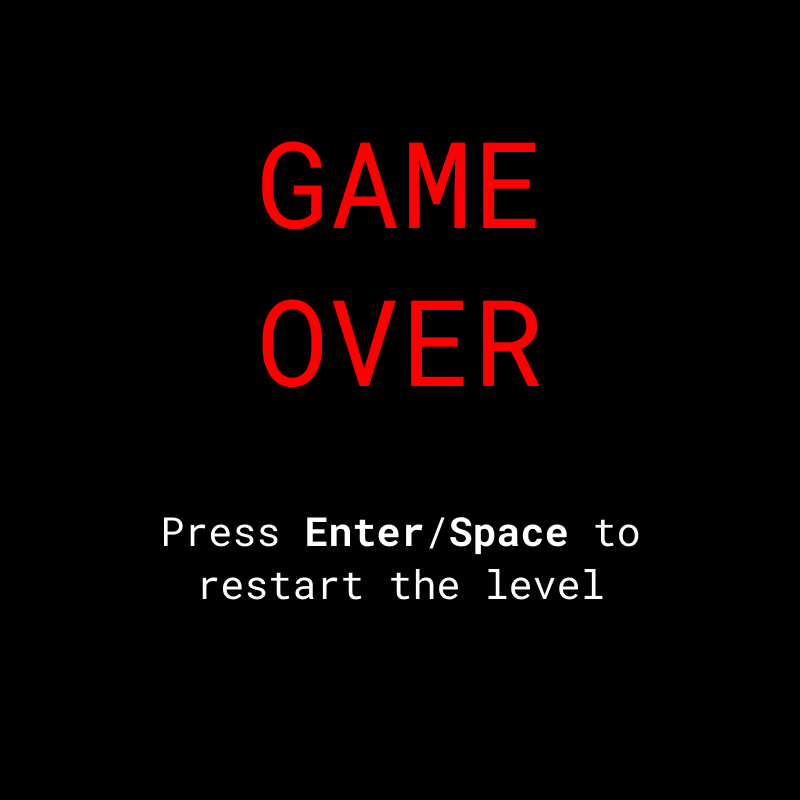
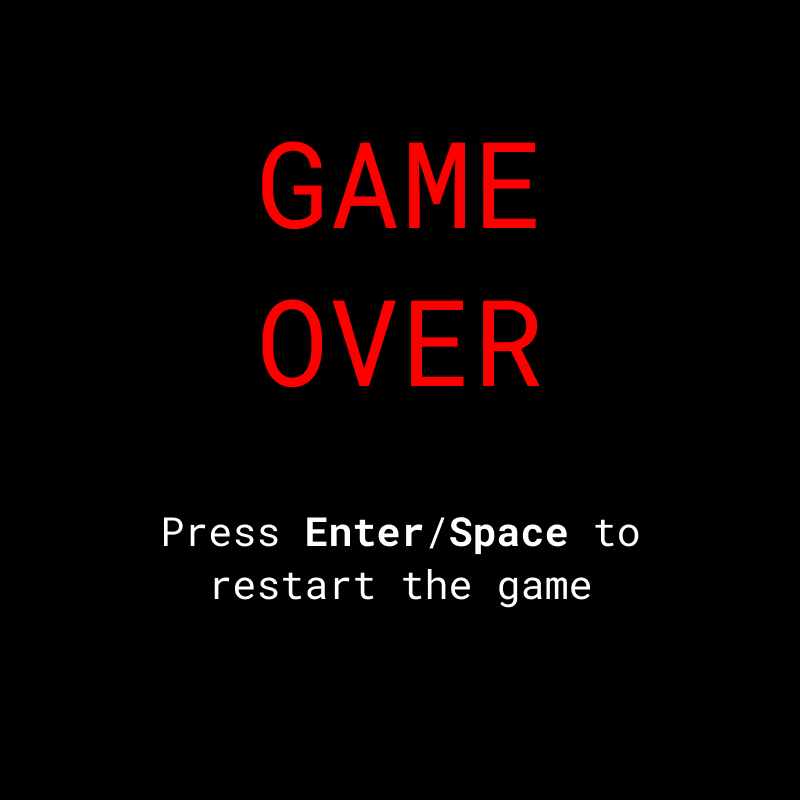
Game over method changed
Now you start from the begin

Changed region(s): [[0.25, 0.7188, 0.75, 0.7812]]

diff --git a/Screen.java b/Screen.java
@@ -22,5 +22,13 @@ public class Screen extends World implements ScreenActions{
     public void checkKeyDown(Screen newScreen){
         if(Greenfoot.isKeyDown("enter") || Greenfoot.isKeyDown("space"))
             Greenfoot.setWorld(newScreen);
-    }   
+    }
+    
+    public void restartGame(){
+        Timer.restartTimer();
+        Level.restartLevels();
+        MathProblem.restartMathProblem();
+        Hero.getInstance().resetHeroLives();
+        TouchingTimer.restartTimer();
+    }
 }

diff --git a/GameOverScreen.java b/GameOverScreen.java
@@ -13,16 +13,10 @@ public class GameOverScreen extends Screen{
      */
     public GameOverScreen(){    
         super(); 
-        restartLevel();
+        restartGame();
     }
     // Act
     public void act(){
         checkKeyDown(new Level());
-    }
-    // restart level
-    public void restartLevel(){
-        Timer.restartTimer();
-        Hero.getInstance().resetHeroLives();
-        TouchingTimer.restartTimer();
     }
 }

diff --git a/WinScreen.java b/WinScreen.java
@@ -19,12 +19,4 @@ public class WinScreen extends Screen{
     public void act(){
         checkKeyDown(new Level());
     }
-    // Restart game
-    public void restartGame(){
-        Timer.restartTimer();
-        Level.restartLevels();
-        MathProblem.restartMathProblem();
-        Hero.getInstance().resetHeroLives();
-        TouchingTimer.restartTimer();
-    }
 }

diff --git a/Hero.java b/Hero.java
@@ -123,7 +123,7 @@ public class Hero extends SmoothMover{
                 loseLive();
             }
         }
-        int transparency = TouchingTimer.isCountingDown() ? 50 : 255;
+        int transparency = TouchingTimer.isCountingDown() ? 100 : 255;
         getImage().setTransparency(transparency);
     }
     // touching enemy getter

diff --git a/ScreenActions.java b/ScreenActions.java
@@ -8,4 +8,5 @@
  */
 public interface ScreenActions  {
     public abstract void checkKeyDown(Screen newSreen);
+    public abstract void restartGame();
 }
